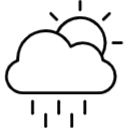
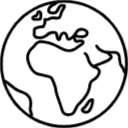
1

diff --git a/1_network_display.py b/1_network_display.py
@@ -49,14 +49,14 @@ type_dict = {"Physical": ["#ffcc00", "icons/physical.png"],
              "Food Systems": ["#99cc33", "icons/food.png"],
              "Energy Systems": ["#ff6600", "icons/energy.png"],
              "Misc.": ["#ff9900", "icons/misc.png"],
-             "Source": ["color", "icons/source.png"]}
+             "Source": ["teal", "icons/source.png"]}
 
 # --- Widget area (below the title) ---
 nodes = []
 edges = []
 
-nodes.append(ag.Node(id="El Niño", label="El Niño", size=30, shape="circularImage",
-                     image=local_image_to_data_uri("icons/physical.png"), imagePadding=5))
+nodes.append(ag.Node(id="El Niño", label="El Niño", size=40, shape="circularImage",
+                     image=local_image_to_data_uri("icons/el_nino.png"), imagePadding=10))
 
 for row in range(len(df)):
     node_name = df.iat[row, 0]
@@ -74,7 +74,16 @@ def display_graph():
         config = ag.Config(width=1200,
                            height=600,
                            directed=True,
-                           physics=True,
+                           physics={
+                               "barnesHut": {
+                                   "gravitationalConstant": -8000,
+                                   "centralGravity": 0.3,  # pulls all nodes toward the center
+                                   "springLength": 100,  # rest length of edges
+                                   "springConstant": 0.04,  # stiffness of edges (higher = stronger pull along edges)
+                                   "damping": 0.09,
+                                   "avoidOverlap": 0.1
+                               }
+                           },
                            hierarchical=False,
                            )
 

diff --git a/2_propose_node.py b/2_propose_node.py
@@ -27,14 +27,17 @@ def node_proposal_portal():
     connect_json = json.dumps(connect)
     node_type = st.selectbox("What type of impact is this?", types)
     evidence = st.text_input("Please provide argumentation for your impact, with evidence.")
+    group_id = st.text_input("What is your GroupID?")
     if st.button("Submit"):
         if not name or not connect or not node_type or not evidence:
             st.write("At least one field is missing, please complete the form")
         elif name in list(nodes):
             st.write("This impact already exists! No duplicate names")
+        elif not group_id:
+            st.write("You must include your Group ID!")
         else:
             submission_time = datetime.now().strftime("%A, %B %d, %Y, at %H:%M:%S")
-            new_row = pd.DataFrame(data={"Name": name, "Type": node_type, "Connection": connect_json,"Evidence": evidence, "Submission Time": submission_time, "Status": "Review"}, index=[0])
+            new_row = pd.DataFrame(data={"Name": name, "Type": node_type, "Connection": connect_json,"Evidence": evidence, "Submission Time": submission_time, "Status": "Review", "GroupID": group_id}, index=[0])
 
             df = conn.read(worksheet="Proposed Nodes", ttl=0)
             df = pd.concat([df, new_row], ignore_index=True)

diff --git a/3_propose_connection.py b/3_propose_connection.py
@@ -36,13 +36,16 @@ def connect_proposal_portal():
         target_json = json.dumps(target)
         connect_json = json.dumps(connect)
         evidence = st.text_input("Please provide argumentation for your impact, with evidence.")
+        group_id = st.text_input("What is your GroupID?")
         if st.button("Submit"):
             if not evidence or not connect:
                 st.write("At least one field is empty! Please complete the form")
+            elif not group_id:
+                st.write("Please add your GroupID!")
             else:
                 submission_time = datetime.now().strftime("%A, %B %d, %Y, at %H:%M:%S")
                 new_row = pd.DataFrame(data={"Target": target_json, "Cause": connect_json, "Evidence": evidence,
-                                             "Submission Time": submission_time, "Status": "Review"}, index=[0])
+                                             "Submission Time": submission_time, "Status": "Review", "GroupID": group_id}, index=[0])
 
                 df = conn.read(worksheet="Proposed Connections", ttl=0)
                 df = pd.concat([df, new_row], ignore_index=True)